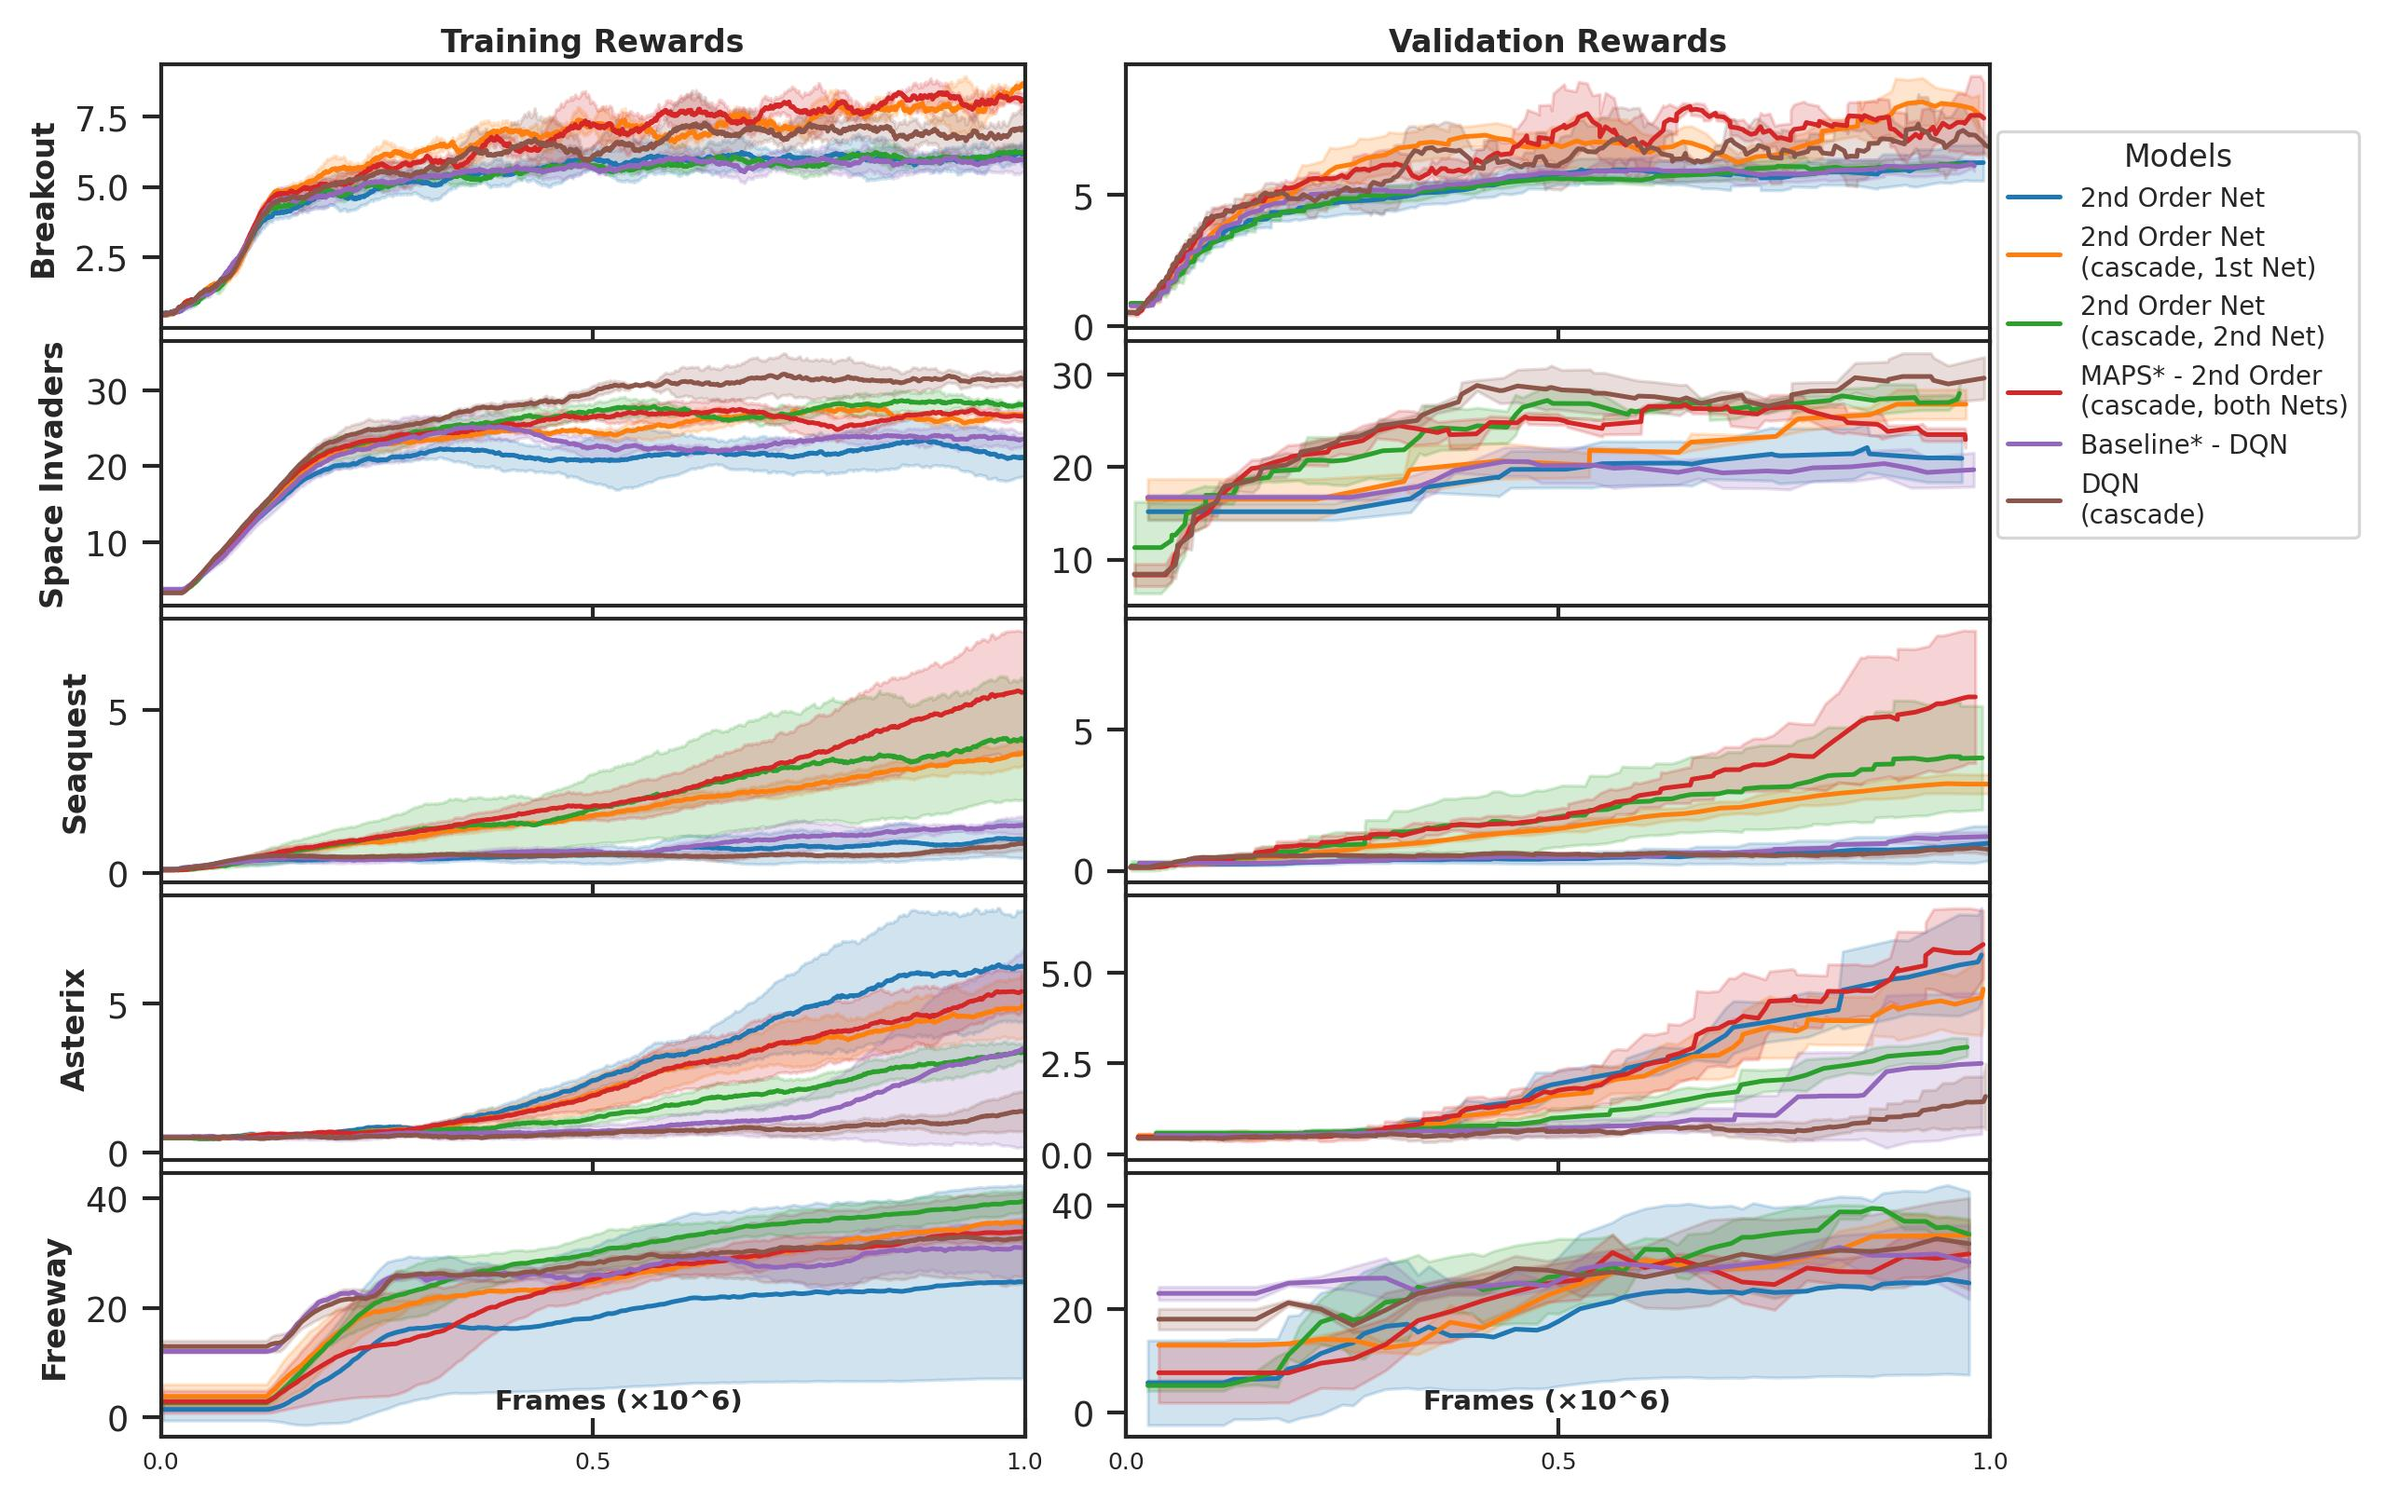
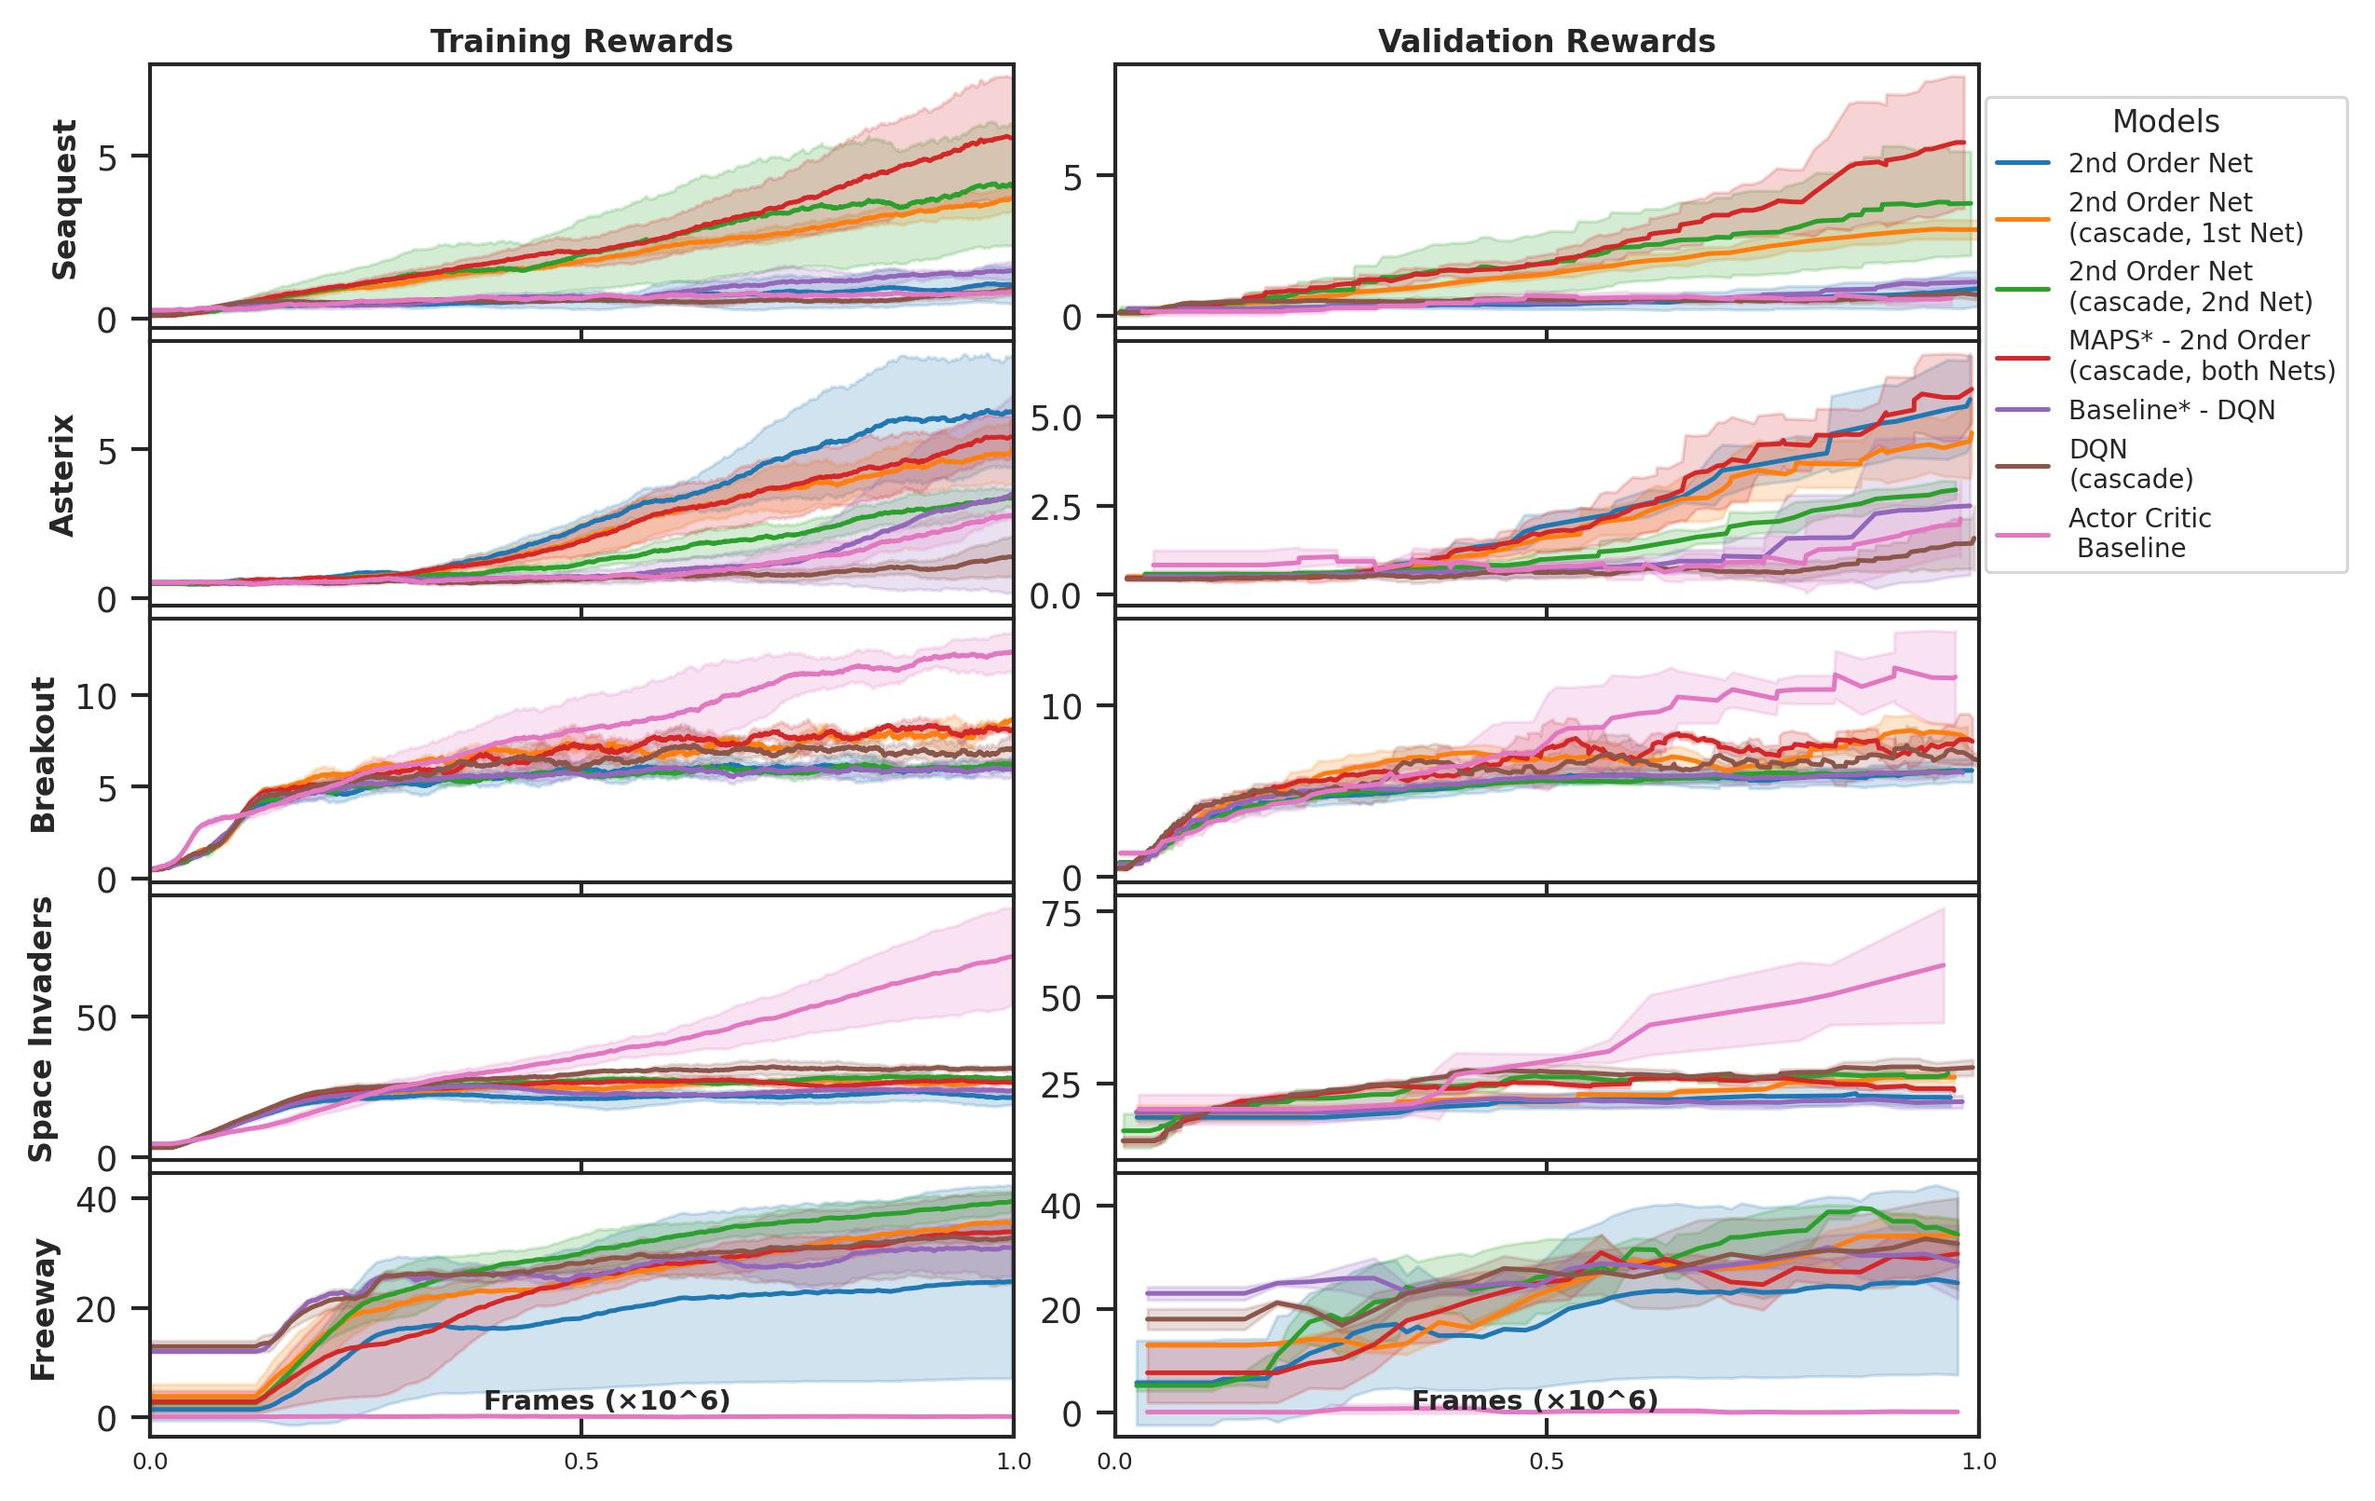
readme and images

diff --git a/README.md b/README.md
@@ -142,13 +142,23 @@ You can change TERRITORY_I for the corresponding environment. Please see the scr
 
 Our results demonstrate significant improvements using the MAPS architecture:
 
-1. **Blindsight and AGL**: Achieved 97% accuracy for Blindsight (significant improvement with Z-score: 8.6), and a 62% accuracy for AGL (significant improvement with Z-score: 15.0)
+1. **Blindsight and AGL**: 
+   - Blindsight: 0.97 +/- 0.02 (Z-score: 9.01)
+   - AGL- High Awareness: 0.66 +/- 0.05 (Z-score: 8.20)
+   - AGL- Low Awareness: 0.62 +/- 0.07 (Z-score: 15.70)
+
+
    ![](images/Perceptual_results.png)
    
 2. **MinAtar SARL**: 
-   - Seaquest: 6.15 rewards (Z-score: 2.97)
-   - Asterix: 5.77 rewards (Z-score: 2.15)
-  
+   - Seaquest: 3.06 +/- 0.34 (Z-score: 7.03)
+   - Asterix: 4.54 +/- 1.01 (Z-score: 1.32)
+   - Breakout: 8.07 +/- 0.72 (Z-score: 3.70)
+   - Space Invaders: 26.80 +/- 1.59 (Z-score: 4.13)
+   - Freeway: 34.20 +/- 2.83 (Z-score: 0.95)
+      
+   ![](images/SARL_table.png)
+
    ![](images/SARL_results.jpg)
 
 4. **MinAtar SARL + continuous/transfer learning**: 
